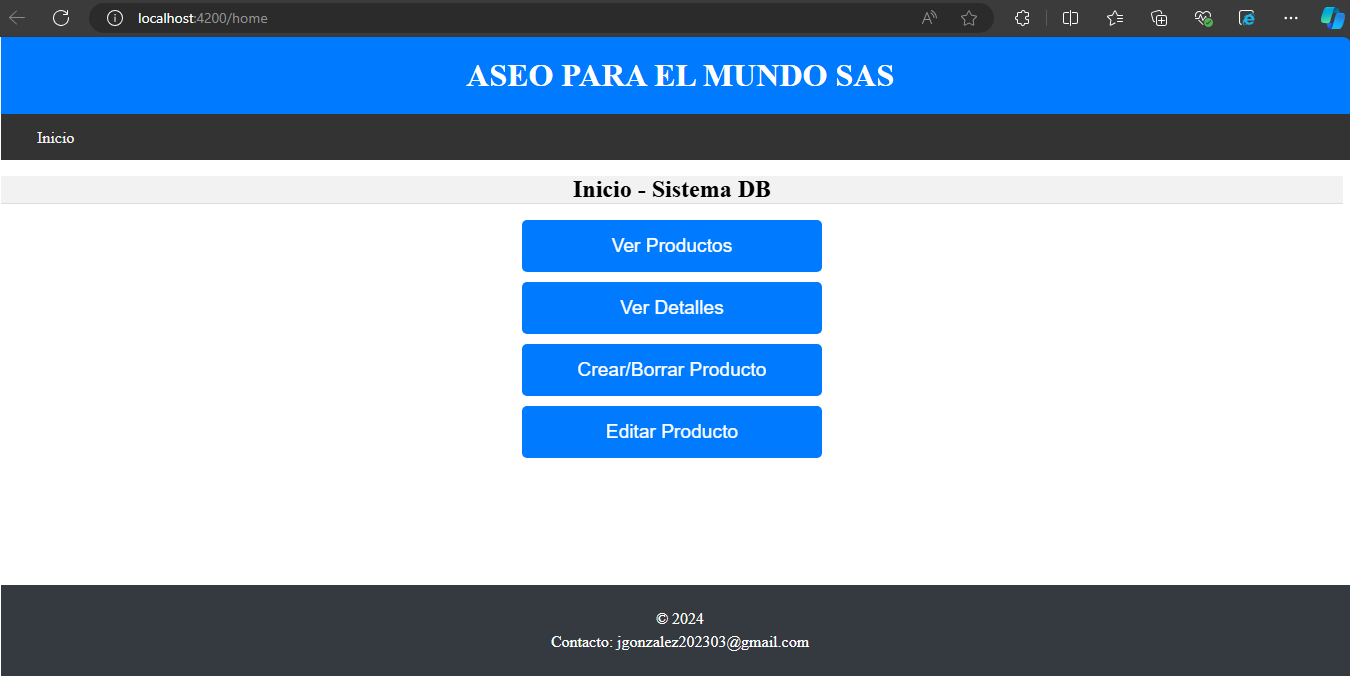
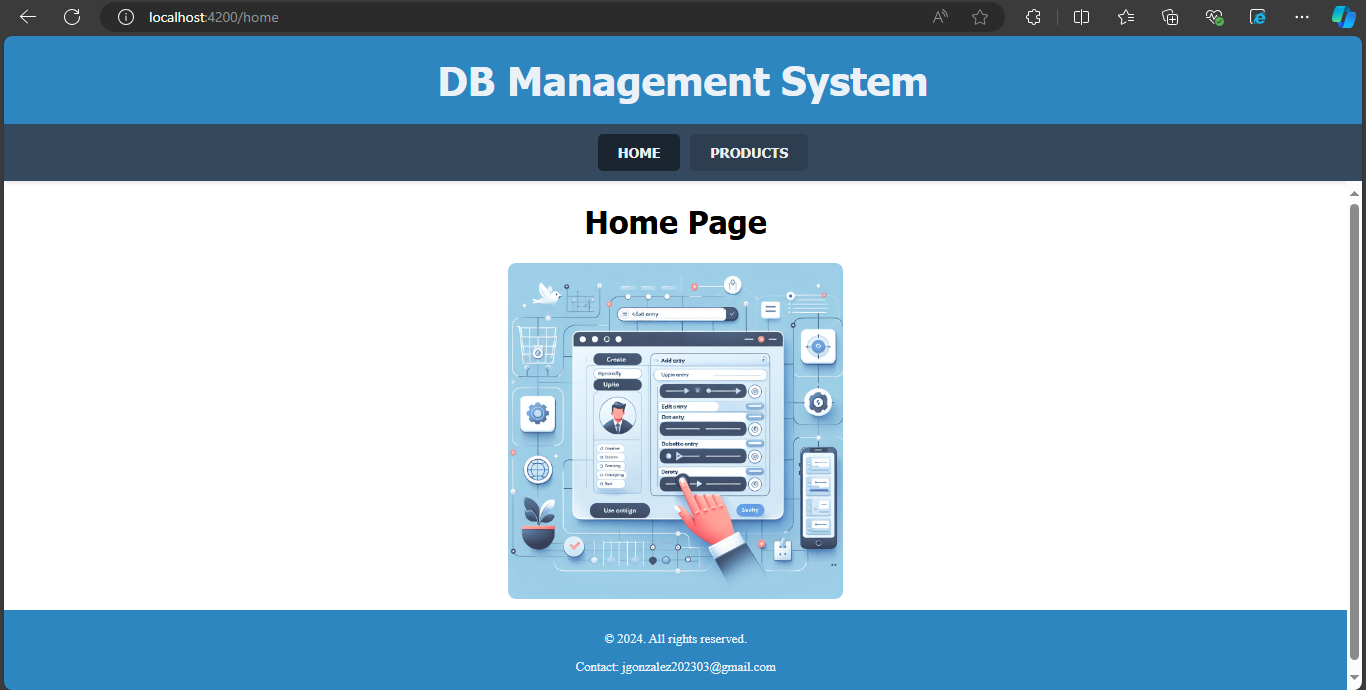
Images from v0.1 deleted and Readme for v0.2 updated

diff --git a/README.md b/README.md
@@ -1,6 +1,7 @@
 # ASEO PARA EL MUNDO SAS - SQL CRUD WEBAPP  
   
 Un sistema CRUD (Create, Read, Update, Delete) para gestionar información de productos para ASEO PARA EL MUNDO SAS. Desarrollado utilizando Angular para el frontend y .NET Core para el backend, con una base de datos SQL Server para almacenar los datos.
+
 ![home](data/images/App-Screenshots/home.PNG)
 
 ## Tecnologías  
@@ -40,22 +41,24 @@ Un sistema CRUD (Create, Read, Update, Delete) para gestionar información de pr
 
 ## Uso de la aplicación  
   
-Al abrir la aplicación, serás redirigido a la página de inicio. En la parte superior de la página, hay una barra de navegación con un botón de inicio, y en medio de la pantalla encontrarás 4 con botones que redirigen a diferentes secciones de la aplicación:
-  
-- **Ver Productos:** Al hacer clic en este botón, serás redirigido a una página que muestra una tabla con todos los productos en la base de datos.
-![AllProducts](data/images/App-Screenshots/AllProducts.PNG)
-  
-- **Ver Detalles:** Esta sección incluye un cuadro de texto donde puedes ingresar el ID de un producto. Al hacer clic en el botón "Ver", la aplicación mostrará los detalles del producto correspondiente en una tabla.
-![SeeProduct](data/images/App-Screenshots/SeeProduct.PNG)
-  
-- **Crear/Borrar Producto:** En esta sección puedes crear un nuevo producto o borrar uno existente. Para crear un nuevo producto, introduce los detalles del producto (nombre, descripción, precio y stock) en los cuadros de texto correspondientes y haz clic en "Crear". Para borrar un producto, introduce el ID del producto en el cuadro de texto para Id y haz clic en "Borrar". También puedes visualizar los detalles de un producto antes de borrarlo haciendo clic en "Ver".
-![CreateDeleteProduct](data/images/App-Screenshots/CreateDeleteProduct.PNG)
+Al abrir la aplicación, serás redirigido a la página de inicio con una imagen en el centro de la pantalla. En la parte superior de la página, hay una barra de navegación con un botón de 'Home' y 'Products' que redirige a la página donde se encuentran las funcionalidades CRUD de la aplicación para la base de datos SQL Server asociada:
 
-- **Editar Producto:** Aquí puedes editar los detalles de un producto existente. Introduce el ID del producto en el cuadro de texto, luego introduce los nuevos detalles en los cuadros de texto correspondientes y haz clic en "Editar". También puedes visualizar los detalles de un producto antes de editarlo haciendo clic en "Ver".
-![EditProduct](data/images/App-Screenshots/EditProduct.PNG)
+![ProductsPage](data/images/App-Screenshots/ProductsPage.PNG)
 
-Recuerda que siempre puedes volver a la página de inicio haciendo clic en "Inicio" en la barra de navegación.
+La página 'Products' consta de 2 secciones: El panel de control y la vista de tabla.
   
-## Contacto  
+- **Ver Todos los Productos:** Al ingresar a la página, inmediatamente todos los productos de la base de datos son cargados en la tabla de la derecha. También, si se ha aplicado alguna operación que cambiara la información mostrada en la tabla, se puede hacer click sobre el botón 'See All' para mostrar todos los productos actualizados de la base de datos en la tabla.
   
+- **Ver Detalles:** Para ver los detalles de un único producto en la tabla, se puede ingresar el id (Mayor a cero 0) del producto a revisar y hacer click sobre el botón 'Get'.
+  
+- **Editar Producto:** Para editar/actualizar la información de un producto, se debe ingresar el id en el campo de texto 'ID' y llenar los datos del producto en los demás campos 'Name', 'Description', 'Price' y 'Stock' respectivamente y hacer click sobre 'Edit'. Finalmente, puede ingresar el 'id' del producto que se acaba de actualizar y darle al botón 'Get' para validar la información actualizada.
+
+- **Crear Producto:** Para crear o agregar un producto en la base de datos, se debe llenar los datos del producto en los campos 'Name', 'Description', 'Price' y 'Stock' respectivamente y hacer click sobre 'Create' (El id no es necesario ingresar porque la base de datos lo asigna automáticamente). Finalmente, se puede hacer click en 'See All' y buscar el producto creado al final de la tabla.
+
+- **Eliminar Producto:** Para eliminar un producto de la base de datos, se puede ingresar el id (Mayor a cero 0) del producto a revisar y hacer click sobre el botón 'Delete'.
+
+- **Clear:** Adicionalmente, el panel de control tiene un botón 'Clear' que limpia los campos de entrada de texto.
+
+## Contacto
+
 Si tienes preguntas o encuentras algún problema con la aplicación, no dudes en contactar a jgonzalez202303@gmail.com.
